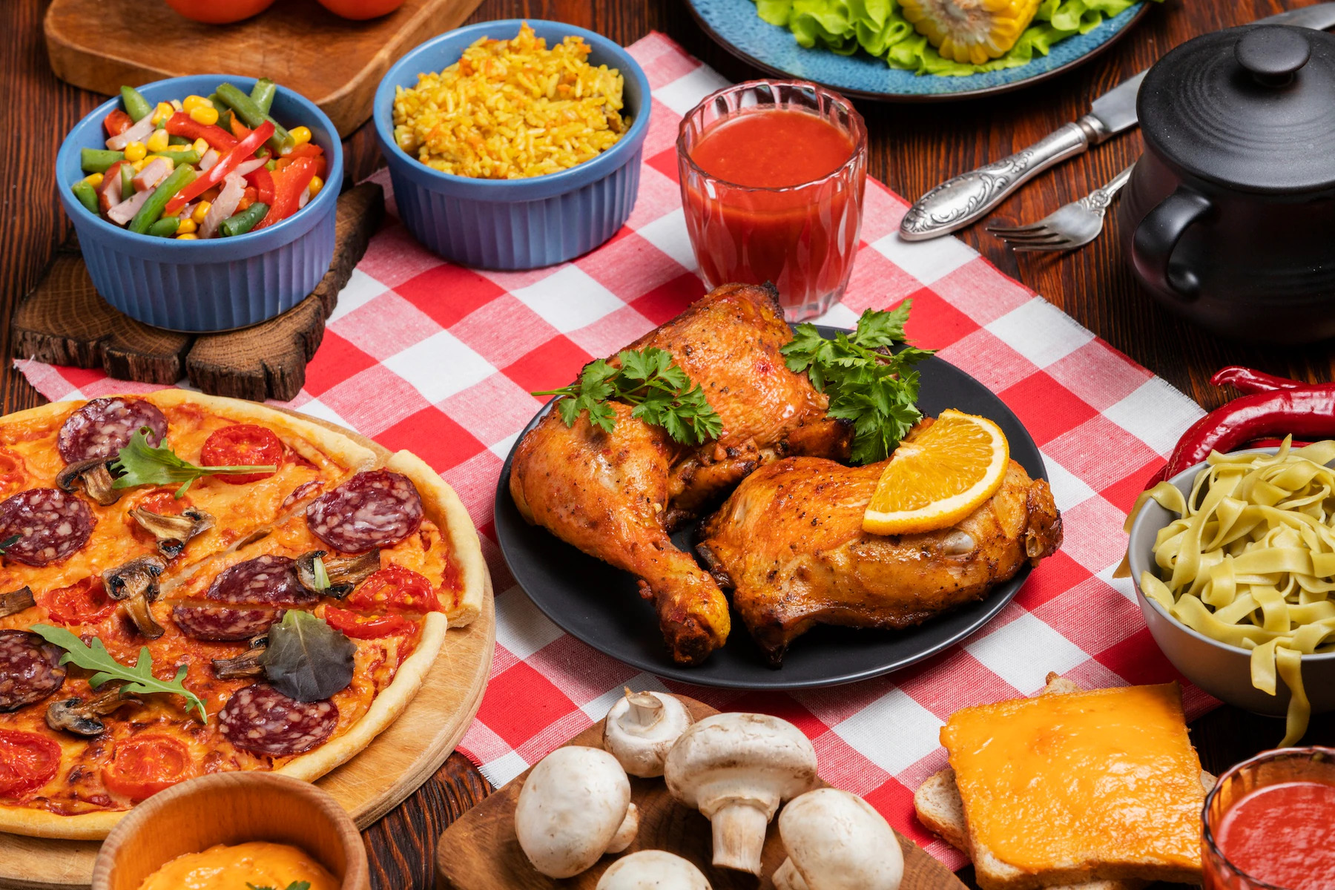
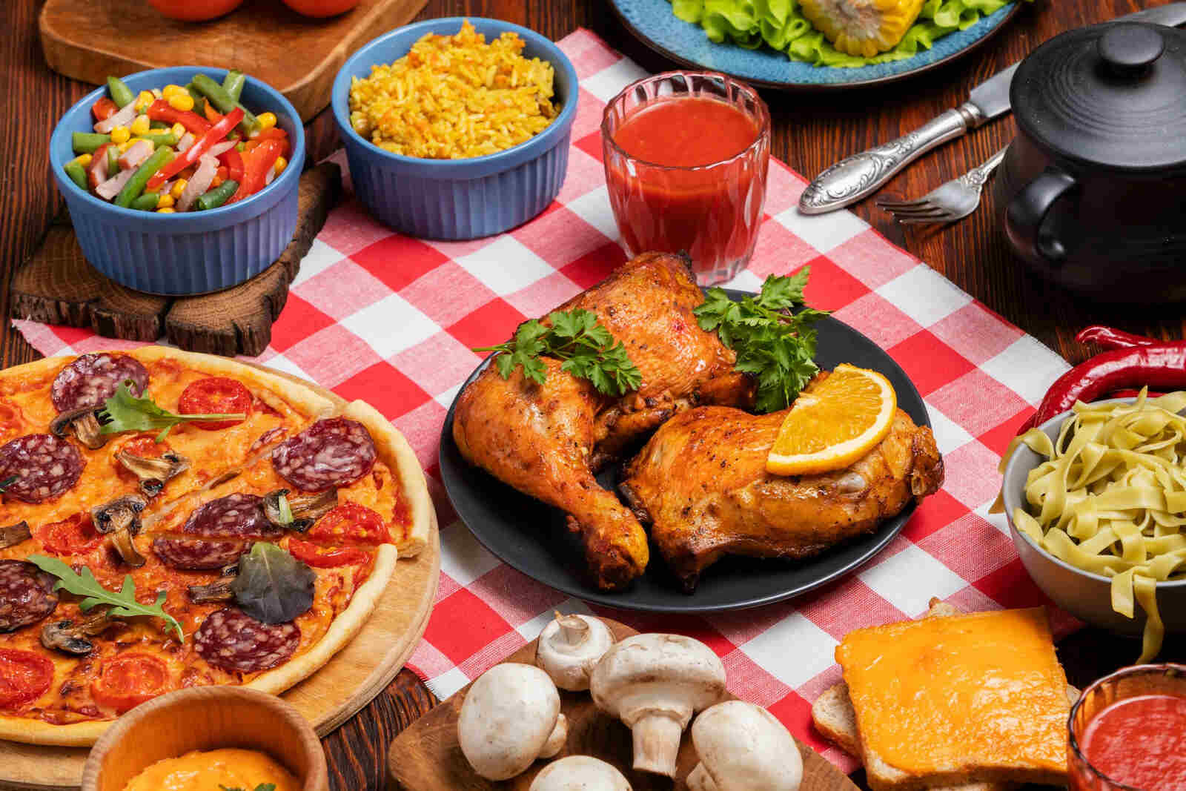
compress images

diff --git a/styles/globals.css b/styles/globals.css
@@ -11,7 +11,7 @@ body,
 html {
 	overflow-x: hidden;
 	position: relative;
-	min-width: 375px;
+	min-width: 360px;
 }
 
 .app-container {
